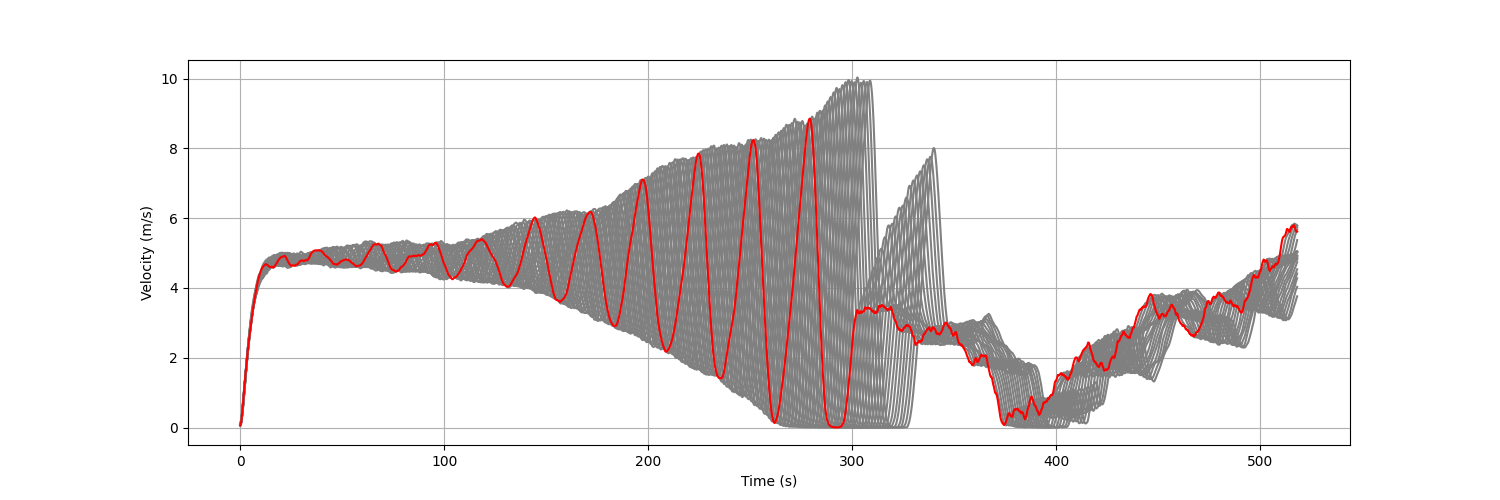
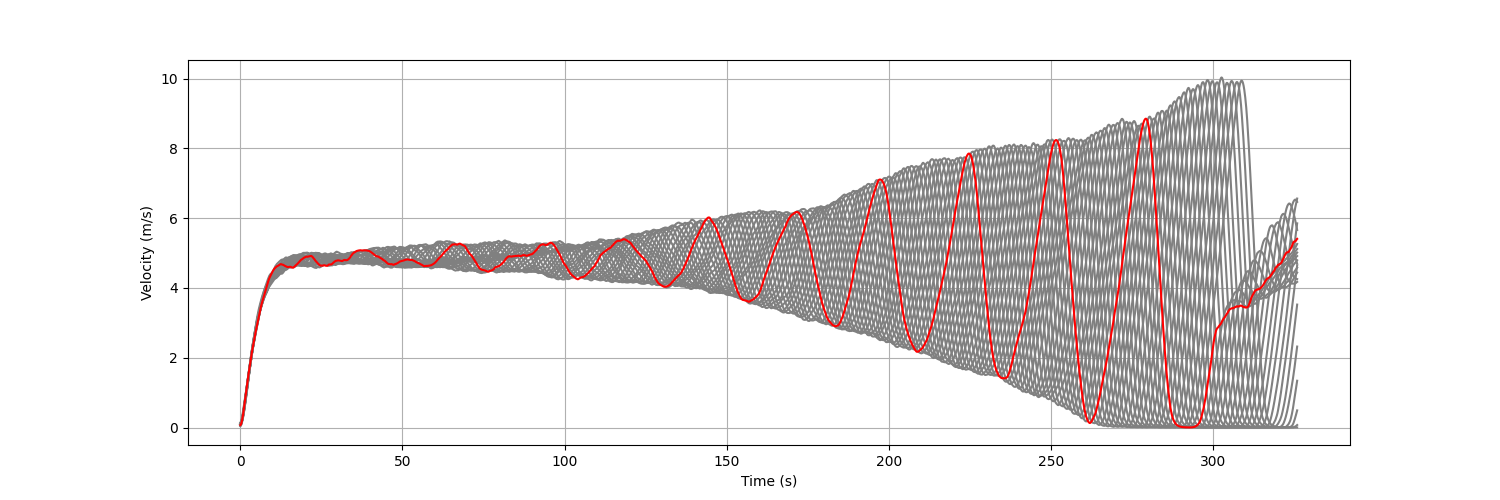
reward change

diff --git a/main.py b/main.py
@@ -17,7 +17,7 @@ def main():
         scripts.train_dqn.evaluate("/home/vamsi/Documents/GitHub/RingRoad-RL/Models/DQN/DQNTrainer_2022-03-03_19-28-07/DQNTrainer_ringroad-v1_f4621_00000_0_2022-03-03_19-28-08/checkpoint_000488/checkpoint-488")
 
     elif args.type == "eval_ppo":
-        scripts.train_ppo.evaluate("/home/vamsi/Documents/GitHub/RingRoad-RL/Models/PPO/SingleAgent/PPOTrainer_2022-07-12_10-35-06/PPOTrainer_ringroad-v1_31d3d_00000_0_2022-07-12_10-35-06/checkpoint_000250/checkpoint-250")
+        scripts.train_ppo.evaluate("/home/vamsi/Documents/GitHub/RingRoad-RL/Models/PPO/SingleAgent/PPOTrainer_2022-07-13_22-22-39/PPOTrainer_ringroad-v1_344f2_00000_0_2022-07-13_22-22-39/checkpoint_000250/checkpoint-250")
 
     elif args.type == "eval_idm":
         scripts.evaluate_idm.evaluate()

diff --git a/Ring_Road/envs/ringroad.py b/Ring_Road/envs/ringroad.py
@@ -125,7 +125,7 @@ class RingRoad(gym.Env):
         reward = self.state_extractor.get_average_vel() / 5
         # punish accelerations (should lead to reduced stop-and-go waves)
         eta = 4  # 0.25
-        mean_actions = eta * np.mean(np.abs(action))
+        mean_actions = np.mean(np.abs(action))
         accel_threshold = 0
 
         if mean_actions > accel_threshold:

diff --git a/Ring_Road/vehicle/vehicle.py b/Ring_Road/vehicle/vehicle.py
@@ -184,7 +184,7 @@ class Agent(Car):
                 self.agent_type = "idm"
 
         accel_action = self._run_control(avg_vel)
-        # accel_action = state_extractor.failsafe_action(accel_action)
+        accel_action = state_extractor.failsafe_action(accel_action)
         self._update_vel(accel_action)
         self.update_positions()
 

diff --git a/Ring_Road/vehicle/state.py b/Ring_Road/vehicle/state.py
@@ -81,7 +81,6 @@ class StateExtractor:
         dv = front_veh.v - agent.v
 
         safe_velocity = 2 * h / DELTA_T + dv - agent.v * (2 * self.delay)
-
         this_vel = agent.v
         sim_step = DELTA_T
 
